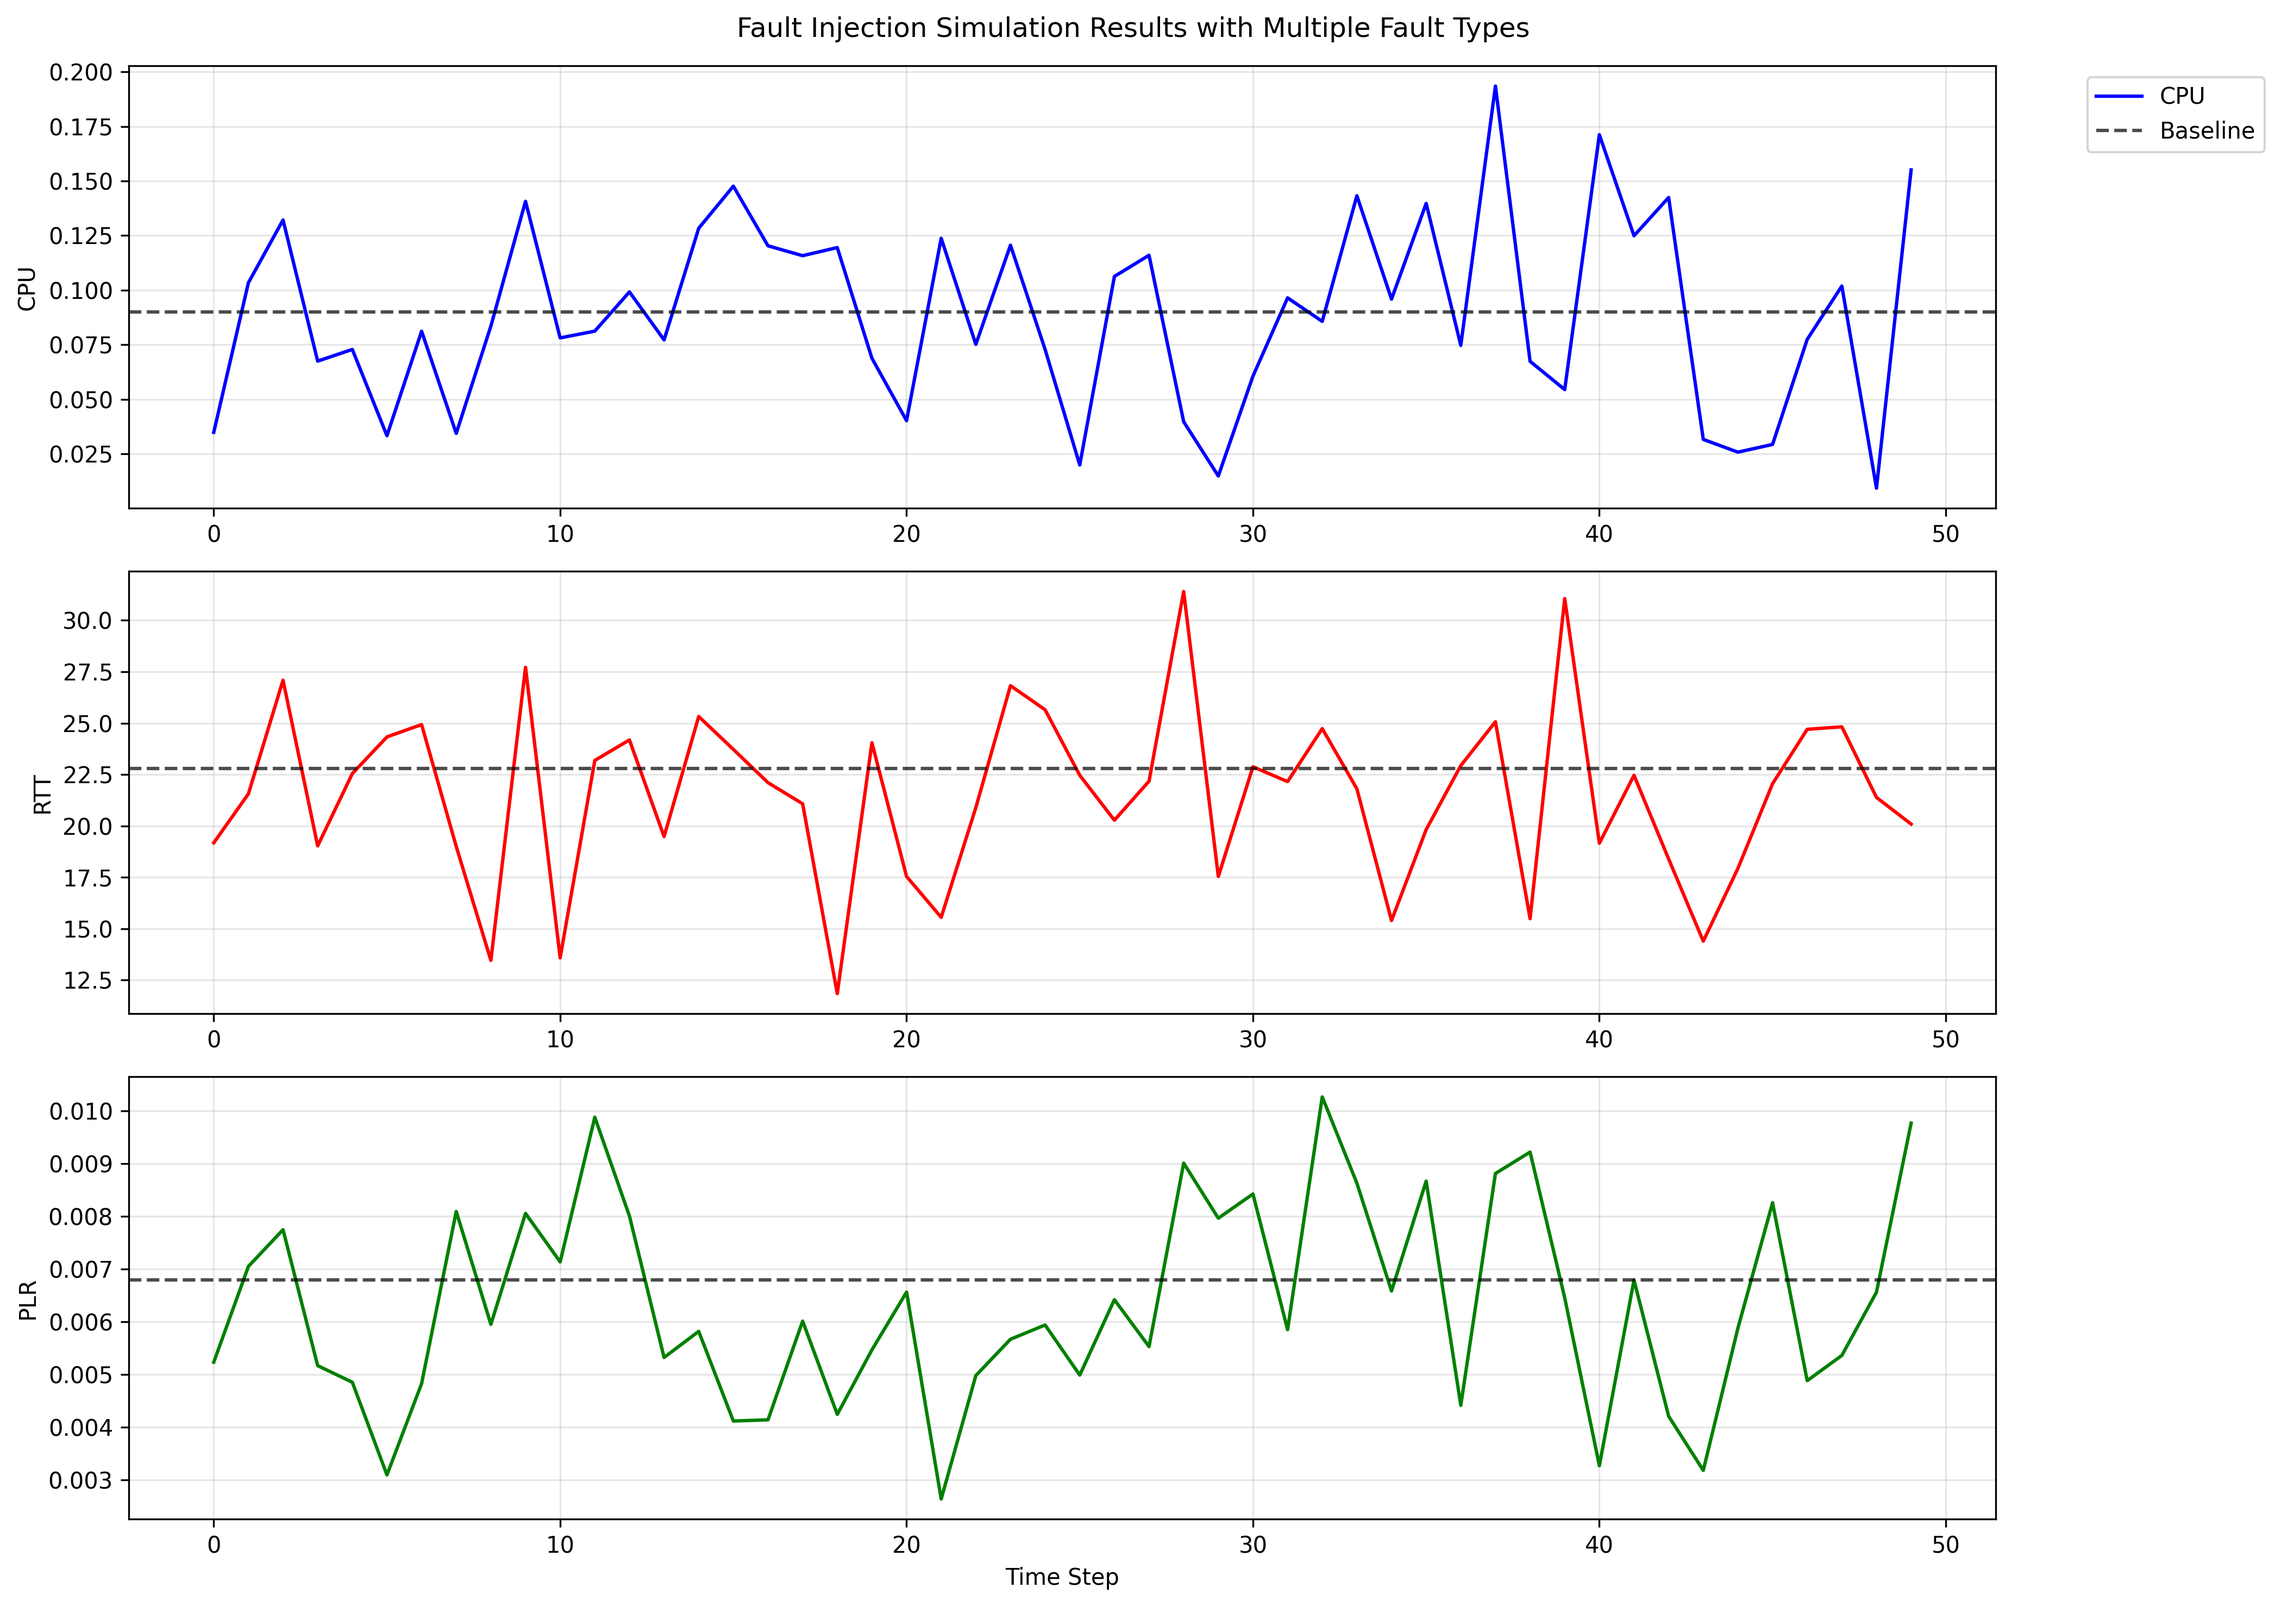
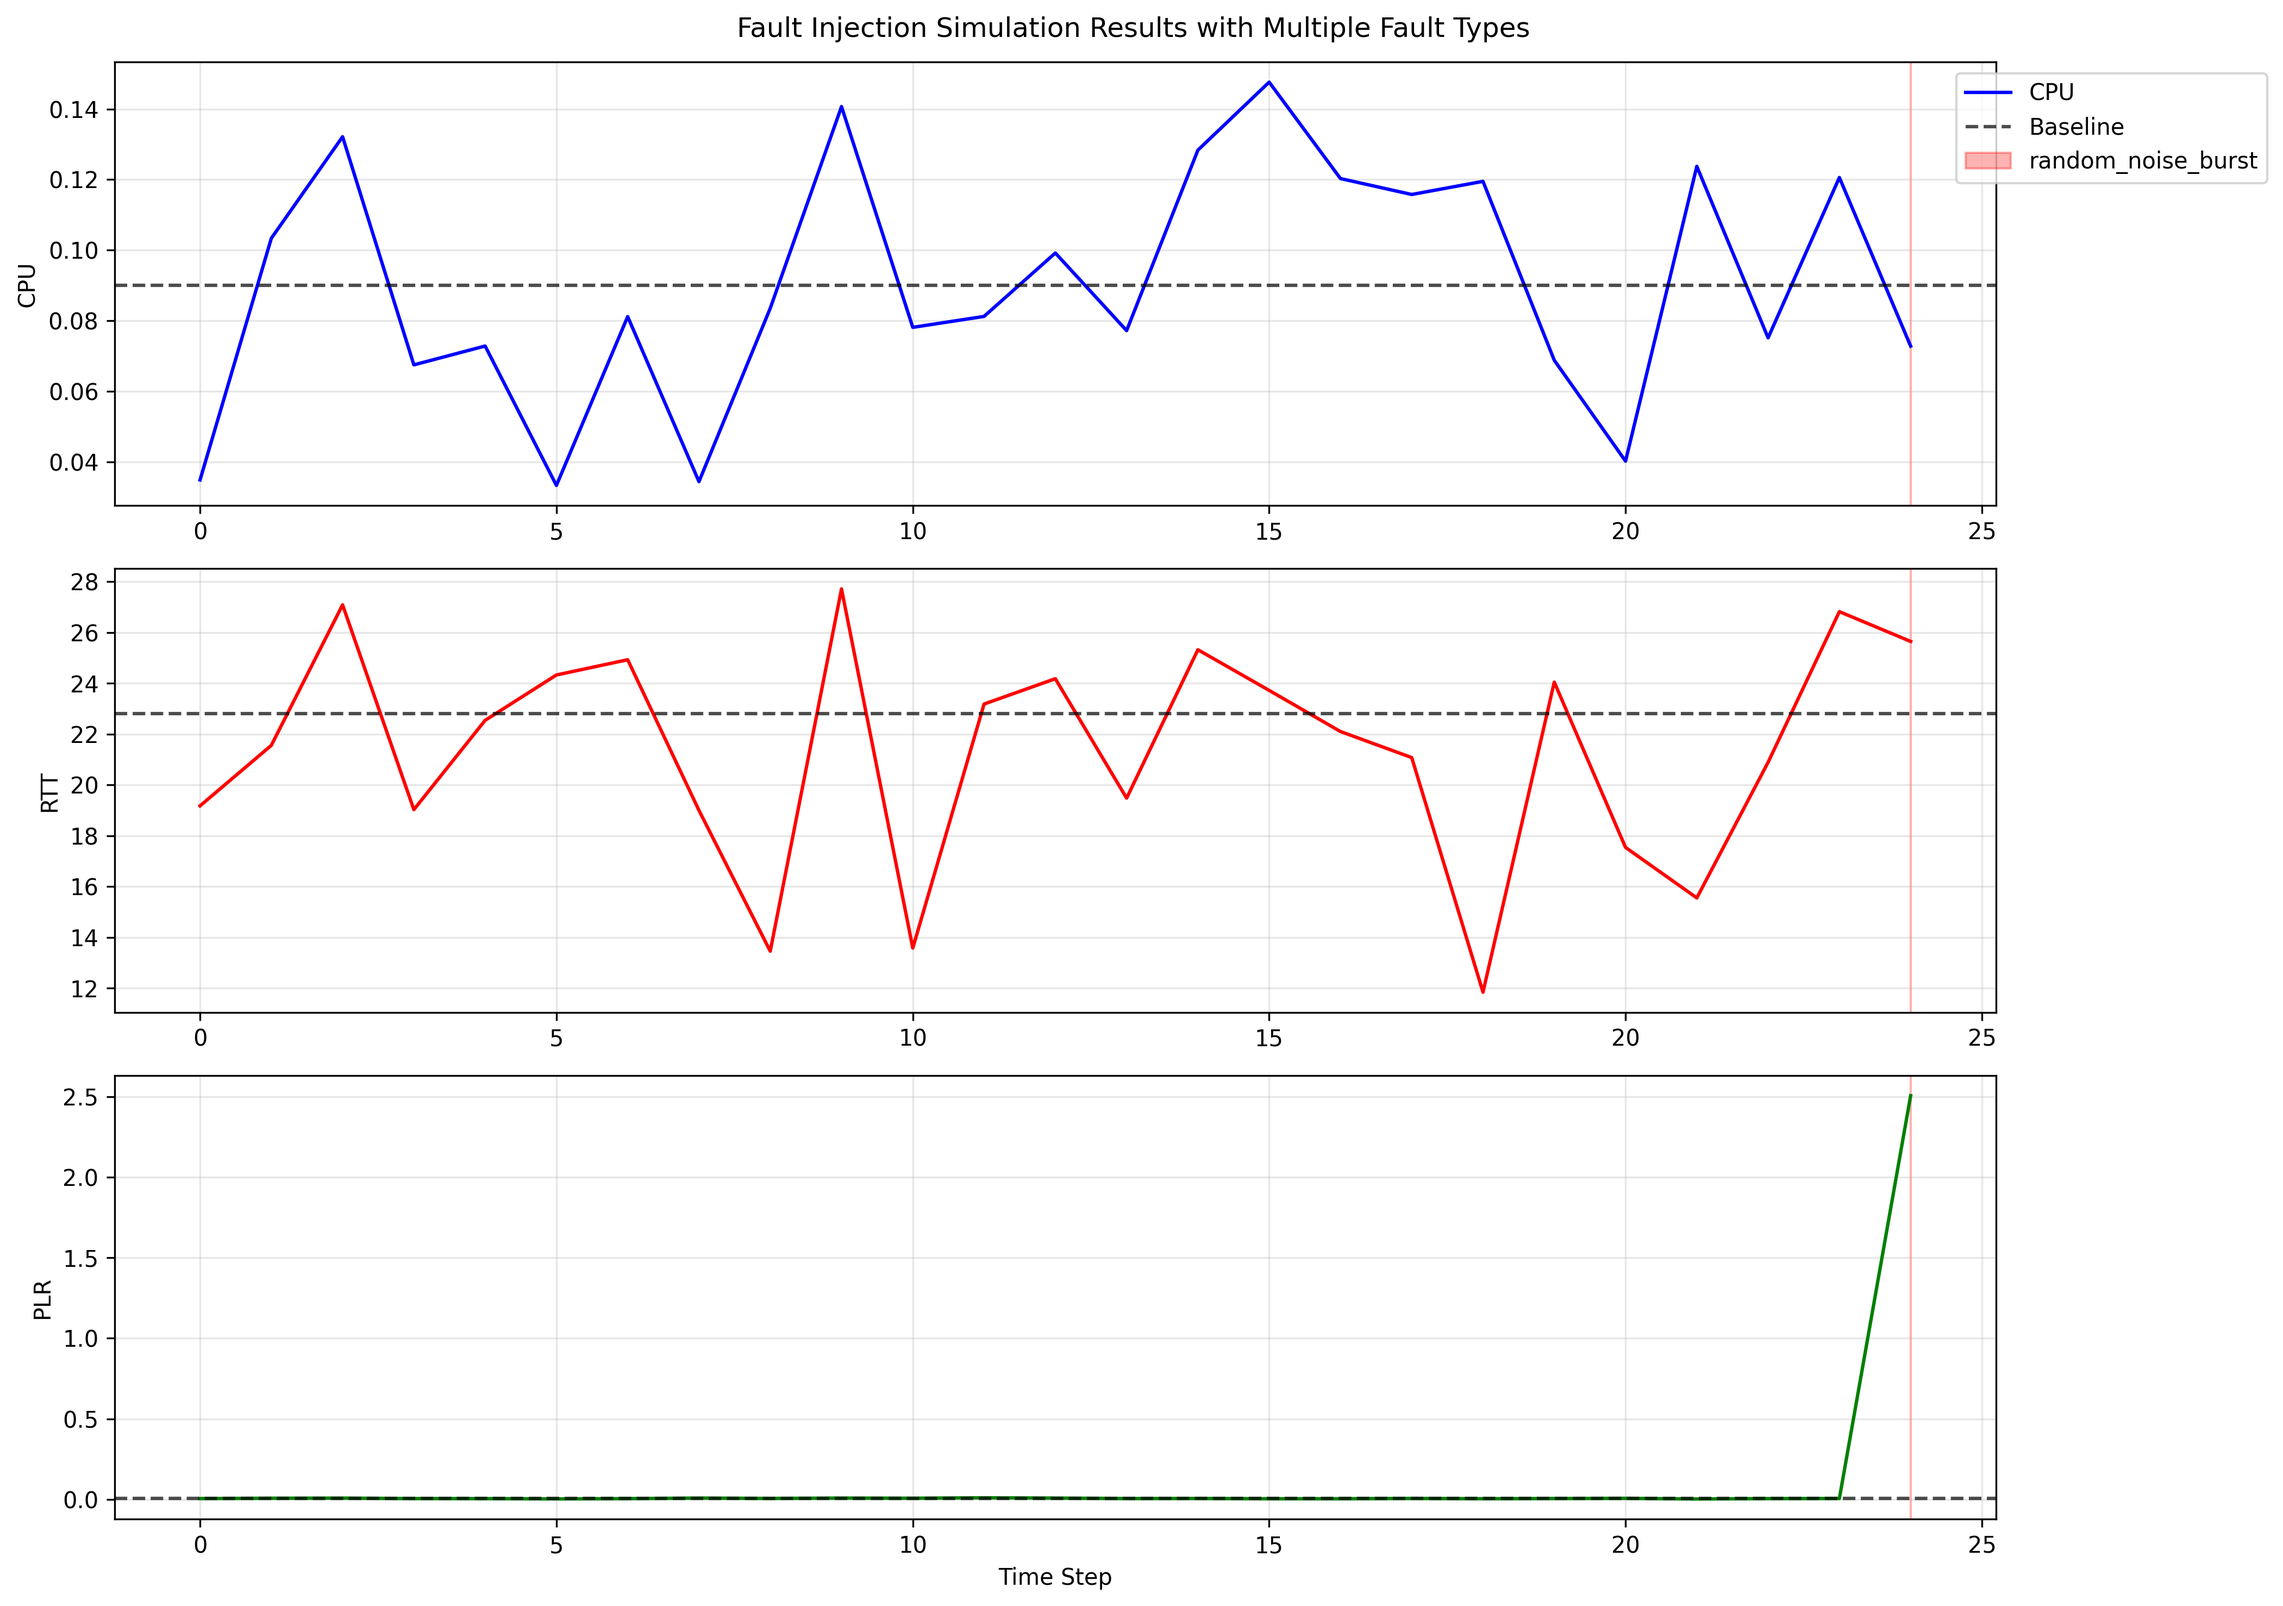
fault data returned

diff --git a/main.py b/main.py
@@ -15,14 +15,19 @@ from fault_injection.fault_injection_sim import run_complete_simulation
 baseline_values = {"cpu":0.090, "rtt":22.8, "plr":0.0068}
 max_values = {'cpu': 0.75, 'rtt': 150, 'plr': 0.5}
 
+#fault_templates = 'fault_injection/fault_templates_zero.yaml',
+#fault_templates = 'fault_injection/fault_templates.yaml',
+fault_templates = 'fault_injection/templates.yaml'
 try:
         # Run simulation
-        results, injector, data_returned = run_complete_simulation(baseline_values, max_values, steps=50, seed=10)
+        results, injector, data_returned = run_complete_simulation(baseline_values, max_values, steps=111, seed=10, fault_templates=fault_templates)
         print(f"\nSimulation completed successfully!")
         print(f"Total steps: {len(results)}")
         print(f"Fault periods: {sum(1 for r in results if r['any_fault_active'])}")
         print("data_returned: ", data_returned)
-        
+        #print(f"results[0]: ", results[0]['cpu'] )
+        if isinstance(results[0], dict) and 'cpu' in results[0]:
+            print(results[0]['cpu'], results[0]['rtt'], results[0]['plr']  )
 except Exception as e:
         print(f"Error during simulation: {e}")
         import traceback

diff --git a/fault_injection/fault_injection_sim.py b/fault_injection/fault_injection_sim.py
@@ -554,7 +554,7 @@ def create_detailed_visualisation(results: List[Dict], metric_names: List[str], 
     print(f"\nDetailed plot saved as 'fault_injection_detailed_analysis.png'")
     plt.close()
     
-def run_complete_simulation(baseline_values:dict, max_values:dict, steps: int, seed: int):
+def run_complete_simulation(baseline_values:dict, max_values:dict, steps: int, seed: int, fault_templates: str) -> Tuple[List[Dict], YAMLFaultInjector, Dict]:
     """Run complete simulation with YAML-based fault configuration."""
     print("Starting YAML-based Fault Injection Simulation...")
     print("="*50)
@@ -570,9 +570,7 @@ def run_complete_simulation(baseline_values:dict, max_values:dict, steps: int, s
     )
     
     # Create YAML-based fault injector
-    injector = YAMLFaultInjector(
-        'fault_injection/fault_templates_zero.yaml',
-        #'fault_injection/templates.yaml',  
+    injector = YAMLFaultInjector(fault_templates,
         metric_names,
         baseline_values,
         max_values,
